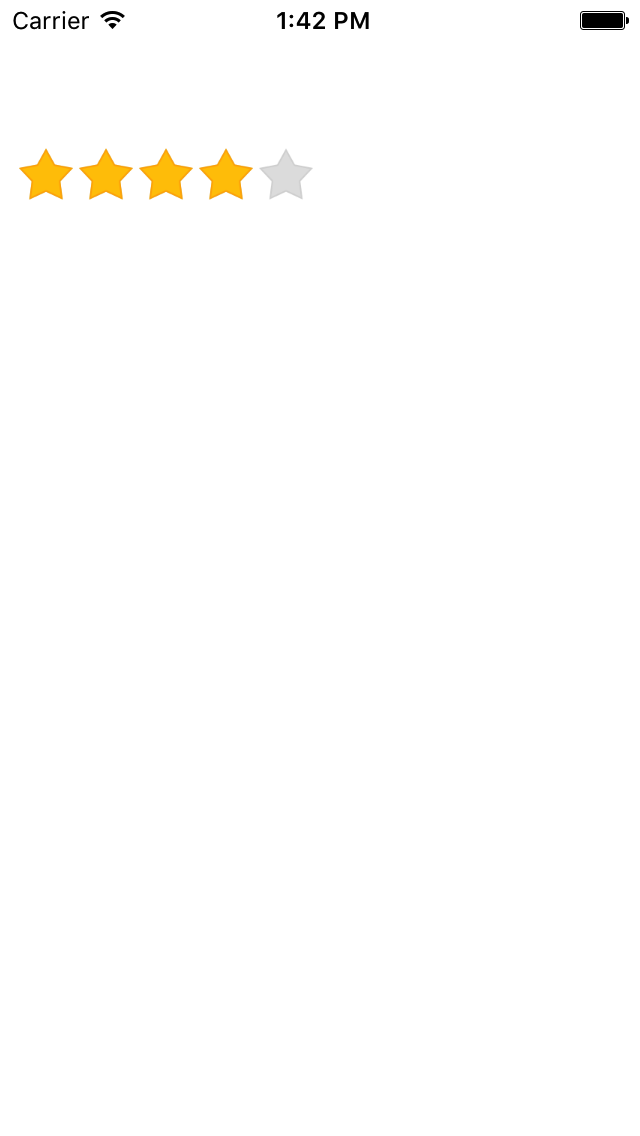
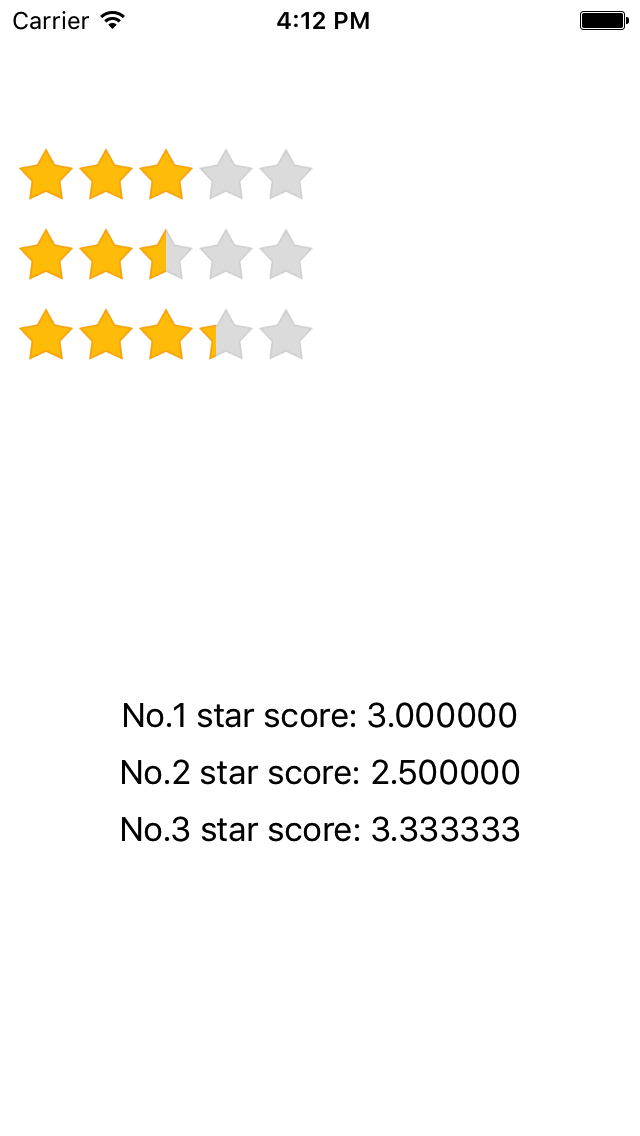
update demo

diff --git a/AWERatingBarDemo/AWERatingBarDemo/ViewController.m b/AWERatingBarDemo/AWERatingBarDemo/ViewController.m
@@ -11,6 +11,10 @@
 
 @interface ViewController ()
 
+@property (weak, nonatomic) IBOutlet UILabel *label1;
+@property (weak, nonatomic) IBOutlet UILabel *label2;
+@property (weak, nonatomic) IBOutlet UILabel *label3;
+
 @end
 
 @implementation ViewController
@@ -18,10 +22,21 @@
 - (void)viewDidLoad {
     [super viewDidLoad];
     // Do any additional setup after loading the view, typically from a nib.
+    __weak typeof(self) weakself = self;
     AWERatingBar *ratingBar = [[AWERatingBar alloc] initWithFrame:CGRectMake(8, 72, 150, 30) numberOfStars:5 rateStyle:WholeStar isAnination:YES finish:^(CGFloat currentScore) {
-        NSLog(@"current score: %lf", currentScore);
+        weakself.label1.text = [NSString stringWithFormat:@"No.1 star score: %lf", currentScore];
     }];
     [self.view addSubview:ratingBar];
+    
+    AWERatingBar *ratingBar1 = [[AWERatingBar alloc] initWithFrame:CGRectMake(8, 112, 150, 30) numberOfStars:5 rateStyle:HalfStar isAnination:YES finish:^(CGFloat currentScore) {
+        weakself.label2.text = [NSString stringWithFormat:@"No.2 star score: %lf", currentScore];
+    }];
+    [self.view addSubview:ratingBar1];
+    
+    AWERatingBar *ratingBar2 = [[AWERatingBar alloc] initWithFrame:CGRectMake(8, 152, 150, 30) numberOfStars:5 rateStyle:IncompleteStar isAnination:YES finish:^(CGFloat currentScore) {
+        weakself.label3.text = [NSString stringWithFormat:@"No.3 star score: %lf", currentScore];
+    }];
+    [self.view addSubview:ratingBar2];
 }
 
 
